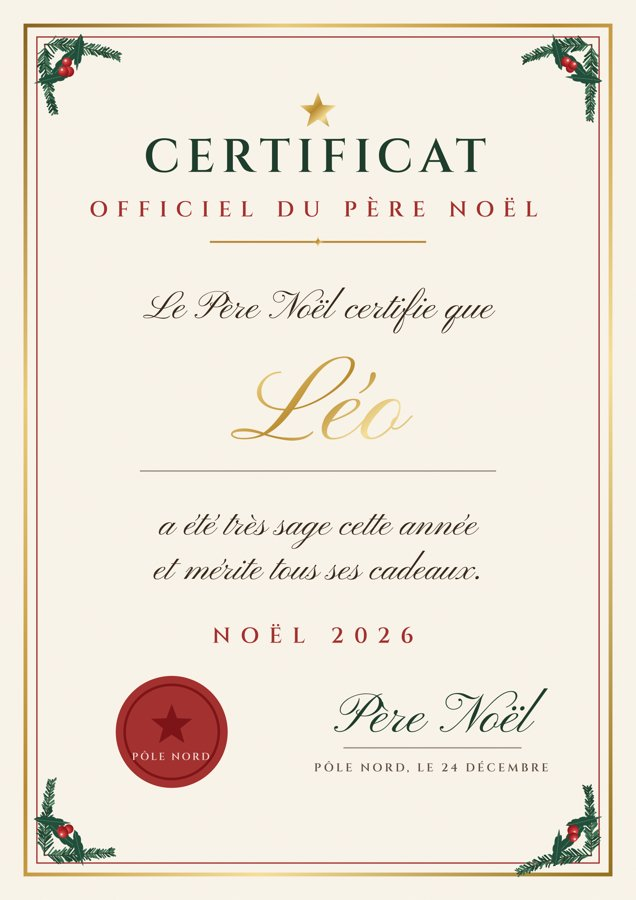
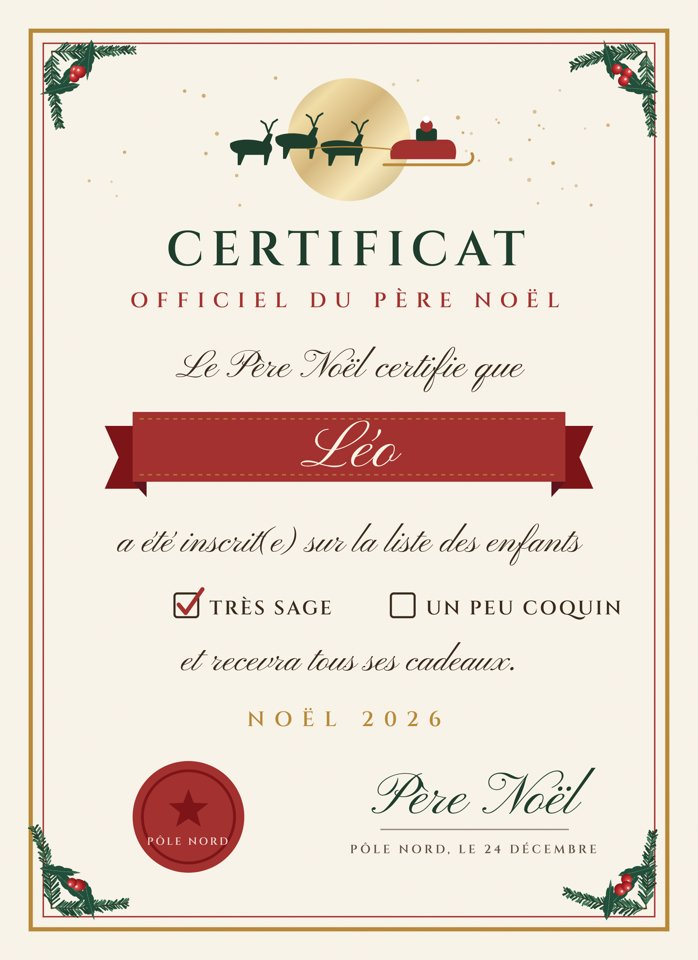
Certificat : traîneau, ruban, cases sage/coquin, format 8x11
Claude-Session: https://claude.ai/code/session_014GDdWm3BuH8EgZGK2oQs5J

Changed region(s): [[0.0299, 0.0, 0.9858, 0.9956]]

diff --git a/designs/nouveaux/generer.js b/designs/nouveaux/generer.js
@@ -162,31 +162,46 @@ const TOTE = (n, face) => { seed = 71; const W = 1000, BG = '#f5efe4', G = '#1f3
   return `<svg xmlns="http://www.w3.org/2000/svg" viewBox="0 0 ${W} ${W}" width="__W__" height="__W__">${DEFS}
   <rect width="${W}" height="${W}" fill="${BG}"/>${center}</svg>`; };
 
-// affiche certificat du Père Noël — format A (1:1.414)
-const CERT = (n) => { seed = 91; const W = 1000, H = 1414, RED = '#a3312f', G = '#1f3d2c', INK = '#3a2a1c', BG = '#fbf6ec';
+// affiche certificat du Père Noël — format 8x11
+const CERT = (n) => { seed = 91; const W = 1000, H = 1375, RED = '#a3312f', G = '#1f3d2c', INK = '#3a2a1c', BG = '#fbf6ec', GOLD = '#b8893a';
   const corner = (x, y, rot) => `<g transform="translate(${x} ${y}) rotate(${rot})">${pine(0, 0, 120, 0)}${pine(0, 0, 110, 90)}${holly(30, 30, 30, 45)}${holly(54, 12, 26, 10)}${holly(12, 54, 26, 80)}${berries(34, 34, 3, 8)}</g>`;
+  // renne stylisé (silhouette simple) + traîneau
+  const deer = (x, y, s) => `<g transform="translate(${x} ${y}) scale(${s})" fill="${G}">
+    <path d="M0 0 C 10 -6 30 -6 44 -2 L 52 -14 L 58 -12 L 54 0 C 58 4 58 10 54 14 L 50 30 L 46 30 L 46 16 L 20 16 L 14 30 L 10 30 L 10 14 C 2 12 -2 6 0 0 Z"/>
+    <path d="M52 -14 L 48 -26 M52 -14 L 58 -28 M48 -26 L 42 -30 M58 -28 L 64 -32" stroke="${G}" stroke-width="2.5" fill="none" stroke-linecap="round"/></g>`;
+  const sleigh = `<g fill="${RED}"><path d="M560 228 C 556 210 566 200 586 200 L 640 200 C 652 200 656 214 652 228 Z"/>
+    <path d="M550 236 H664 C 676 236 680 226 676 220" stroke="${GOLD}" stroke-width="4" fill="none" stroke-linecap="round"/>
+    <rect x="596" y="184" width="30" height="18" rx="4" fill="${G}"/><circle cx="611" cy="180" r="9" fill="${RED}"/><circle cx="611" cy="171" r="5" fill="#fff"/></g>
+    <path d="M440 214 C 480 208 520 210 562 214" stroke="${GOLD}" stroke-width="2" fill="none"/>`;
+  const banner = `<g><path d="M150 610 L 210 610 L 190 655 L 210 700 L 150 700 L 170 655 Z" fill="#7d1418"/><path d="M850 610 L 790 610 L 810 655 L 790 700 L 850 700 L 830 655 Z" fill="#7d1418"/>
+    <path d="M190 590 H810 V690 H190 Z" fill="${RED}"/><path d="M190 690 L 210 712 L 210 690 Z M810 690 L 790 712 L 790 690 Z" fill="#5e141c"/>
+    <path d="M200 600 H800" stroke="${GOLD}" stroke-width="2" stroke-dasharray="6 6" opacity=".8"/><path d="M200 680 H800" stroke="${GOLD}" stroke-width="2" stroke-dasharray="6 6" opacity=".8"/></g>`;
+  const box = (x, y, checked, label) => `<rect x="${x}" y="${y - 30}" width="34" height="34" rx="4" fill="none" stroke="${INK}" stroke-width="3"/>
+    ${checked ? `<path d="M${x + 6} ${y - 14} l10 12 l24 -34" stroke="${RED}" stroke-width="6" fill="none" stroke-linecap="round" stroke-linejoin="round"/>` : ''}
+    <text x="${x + 50}" y="${y}" font-family="Cinzel" font-weight="600" font-size="28" letter-spacing="3" fill="${INK}">${label}</text>`;
+  let snow = ''; for (let i = 0; i < 40; i++) { const x = R(120, 880), y = R(110, 300); if (Math.hypot(x - 500, y - 200) > 95) snow += `<circle cx="${x}" cy="${y}" r="${R(1.5, 3)}" fill="${GOLD}" opacity="${R(.3, .7)}"/>`; }
   return `<svg xmlns="http://www.w3.org/2000/svg" viewBox="0 0 ${W} ${H}" width="__W__" height="__H__">${DEFS}
   <rect width="${W}" height="${H}" fill="${BG}"/><rect width="${W}" height="${H}" filter="url(#grain)"/>
-  <rect x="40" y="40" width="${W - 80}" height="${H - 80}" fill="none" stroke="url(#gold)" stroke-width="6"/>
-  <rect x="58" y="58" width="${W - 116}" height="${H - 116}" fill="none" stroke="${RED}" stroke-width="2"/>
-  ${corner(70, 70, 0)}${corner(W - 70, 70, 90)}${corner(W - 70, H - 70, 180)}${corner(70, H - 70, 270)}
-  ${star(500, 175, 30)}
-  <text x="500" y="270" text-anchor="middle" font-family="Cinzel" font-weight="700" font-size="74" letter-spacing="10" fill="${G}">CERTIFICAT</text>
-  <text x="500" y="340" text-anchor="middle" font-family="Cinzel" font-weight="600" font-size="34" letter-spacing="14" fill="${RED}">OFFICIEL DU PÈRE NOËL</text>
-  <path d="M330 380 H670" stroke="#b8893a" stroke-width="3"/>${sparkle(500, 380, 10)}
-  <text x="500" y="500" text-anchor="middle" font-family="Pinyon Script" font-size="62" fill="${INK}">Le Père Noël certifie que</text>
-  ${n ? `<text x="500" y="690" text-anchor="middle" font-family="Pinyon Script" font-size="${n.length > 9 ? 150 : 190}" fill="url(#gold)">${n}</text>` : ''}
-  <path d="M220 740 H780" stroke="${INK}" stroke-width="2" opacity=".5"/>
-  <text x="500" y="840" text-anchor="middle" font-family="Pinyon Script" font-size="58" fill="${INK}">a été très sage cette année</text>
-  <text x="500" y="910" text-anchor="middle" font-family="Pinyon Script" font-size="58" fill="${INK}">et mérite tous ses cadeaux.</text>
-  <text x="500" y="1010" text-anchor="middle" font-family="Cinzel" font-weight="600" font-size="34" letter-spacing="16" fill="${RED}">NOËL 2026</text>
-  <g transform="translate(270 1150)">
-    <circle r="88" fill="${RED}"/><circle r="74" fill="none" stroke="#7d1418" stroke-width="4"/>
-    
-    ${star(0, -10, 34, '#7d1418')}<text y="44" text-anchor="middle" font-family="Cinzel" font-weight="700" font-size="16" letter-spacing="3" fill="#f3d7d3">PÔLE NORD</text></g>
-  <text x="680" y="1150" text-anchor="middle" font-family="Pinyon Script" font-size="88" fill="${G}">Père Noël</text>
-  <path d="M540 1175 H820" stroke="${INK}" stroke-width="2" opacity=".5"/>
-  <text x="680" y="1212" text-anchor="middle" font-family="Cinzel" font-weight="600" font-size="18" letter-spacing="4" fill="${INK}" opacity=".8">PÔLE NORD, LE 24 DÉCEMBRE</text>
+  <rect x="44" y="44" width="${W - 88}" height="${H - 88}" fill="none" stroke="${GOLD}" stroke-width="6"/>
+  <rect x="62" y="62" width="${W - 124}" height="${H - 124}" fill="none" stroke="${RED}" stroke-width="2"/>
+  ${corner(74, 74, 0)}${corner(W - 74, 74, 90)}${corner(W - 74, H - 74, 180)}${corner(74, H - 74, 270)}
+  ${snow}
+  <circle cx="500" cy="200" r="88" fill="url(#gold)" opacity=".9"/><circle cx="500" cy="200" r="88" fill="${BG}" opacity=".35"/>
+  ${deer(330, 205, 1.05)}${deer(395, 196, 1.05)}${deer(460, 206, 1.05)}${sleigh}
+  <text x="500" y="380" text-anchor="middle" font-family="Cinzel" font-weight="700" font-size="70" letter-spacing="10" fill="${G}">CERTIFICAT</text>
+  <text x="500" y="440" text-anchor="middle" font-family="Cinzel" font-weight="600" font-size="30" letter-spacing="12" fill="${RED}">OFFICIEL DU PÈRE NOËL</text>
+  <text x="500" y="540" text-anchor="middle" font-family="Pinyon Script" font-size="56" fill="${INK}">Le Père Noël certifie que</text>
+  ${banner}
+  ${n ? `<text x="500" y="668" text-anchor="middle" font-family="Pinyon Script" font-size="${n.length > 9 ? 80 : 96}" fill="#fbf3e4">${n}</text>` : ''}
+  <text x="500" y="790" text-anchor="middle" font-family="Pinyon Script" font-size="52" fill="${INK}">a été inscrit(e) sur la liste des enfants</text>
+  ${box(250, 880, true, 'TRÈS SAGE')}${box(560, 880, false, 'UN PEU COQUIN')}
+  <text x="500" y="960" text-anchor="middle" font-family="Pinyon Script" font-size="52" fill="${INK}">et recevra tous ses cadeaux.</text>
+  <text x="500" y="1040" text-anchor="middle" font-family="Cinzel" font-weight="600" font-size="30" letter-spacing="14" fill="${GOLD}">NOËL 2026</text>
+  <g transform="translate(270 1170)"><circle r="80" fill="${RED}"/><circle r="66" fill="none" stroke="#7d1418" stroke-width="4"/>
+    ${star(0, -10, 30, '#7d1418')}<text y="40" text-anchor="middle" font-family="Cinzel" font-weight="700" font-size="15" letter-spacing="3" fill="#f3d7d3">PÔLE NORD</text></g>
+  <text x="680" y="1165" text-anchor="middle" font-family="Pinyon Script" font-size="84" fill="${G}">Père Noël</text>
+  <path d="M545 1188 H815" stroke="${INK}" stroke-width="2" opacity=".5"/>
+  <text x="680" y="1222" text-anchor="middle" font-family="Cinzel" font-weight="600" font-size="17" letter-spacing="4" fill="${INK}" opacity=".8">PÔLE NORD, LE 24 DÉCEMBRE</text>
   </svg>`; };
 
 (async () => {
@@ -210,8 +225,8 @@ const CERT = (n) => { seed = 91; const W = 1000, H = 1414, RED = '#a3312f', G = 
     await p.locator('svg').screenshot({ path: `${OUT}${file}.png` });
   }
   for (const [file, n] of (process.env.CERT ? [['certificat', 'Léo'], ['certificat-sans-prenom', '']] : [])) {
-    await p.setViewportSize({ width: 3508, height: 4961 });
-    await p.setContent(`<html><head>${FONTS}<style>html,body{margin:0}</style></head><body>${CERT(n).replace('__W__', 3508).replace('__H__', 4961)}</body></html>`);
+    await p.setViewportSize({ width: 3600, height: 4950 });
+    await p.setContent(`<html><head>${FONTS}<style>html,body{margin:0}</style></head><body>${CERT(n).replace('__W__', 3600).replace('__H__', 4950)}</body></html>`);
     await p.evaluate(() => document.fonts.ready); await p.waitForTimeout(800);
     await p.locator('svg').screenshot({ path: `${OUT}${file}.png` });
   }
